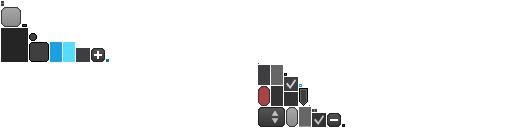
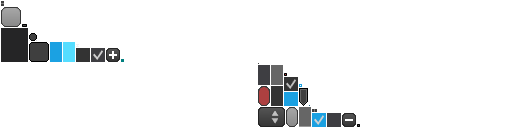
Better VisCheckBox look

Changed region(s): [[0.5938, 0.875, 0.7188, 1.0], [0.1562, 0.375, 0.25, 0.5], [0.5312, 0.7188, 0.5938, 0.8438]]

diff --git a/Editor/src/pl/kotcrab/vis/editor/ui/components/VisCheckBox.java b/Editor/src/pl/kotcrab/vis/editor/ui/components/VisCheckBox.java
@@ -82,7 +82,12 @@ public class VisCheckBox extends TextButton implements Focusable {
 				checkbox = style.checkboxOffDisabled;
 		}
 		if (checkbox == null) {
-			if (isChecked()) {
+			if (isPressed())
+				if (isChecked())
+					checkbox = style.checkboxOnDown;
+				else
+					checkbox = style.checkboxDown;
+			else if (isChecked()) {
 				if (isOver())
 					checkbox = style.checkboxOnOver;
 				else
@@ -97,7 +102,6 @@ public class VisCheckBox extends TextButton implements Focusable {
 		image.setDrawable(checkbox);
 		super.draw(batch, parentAlpha);
 
-		Vector2 pos = image.localToParentCoordinates(new Vector2(0, 0));
 		if (drawBorder) style.focusBorder.draw(batch, getX(), getY() + image.getWidth() / 3, image.getWidth(), image.getHeight());
 	}
 
@@ -112,6 +116,8 @@ public class VisCheckBox extends TextButton implements Focusable {
 	static public class VisCheckBoxStyle extends CheckBoxStyle {
 		public Drawable checkboxOnOver;
 		public Drawable focusBorder;
+		public Drawable checkboxDown;
+		public Drawable checkboxOnDown;
 
 		public VisCheckBoxStyle () {
 			super();
@@ -125,6 +131,8 @@ public class VisCheckBox extends TextButton implements Focusable {
 			super(style);
 			this.checkboxOnOver = style.checkboxOnOver;
 			this.focusBorder = style.focusBorder;
+			this.checkboxDown = style.checkboxDown;
+			this.checkboxOnDown = style.checkboxOnDown;
 		}
 	}
 
